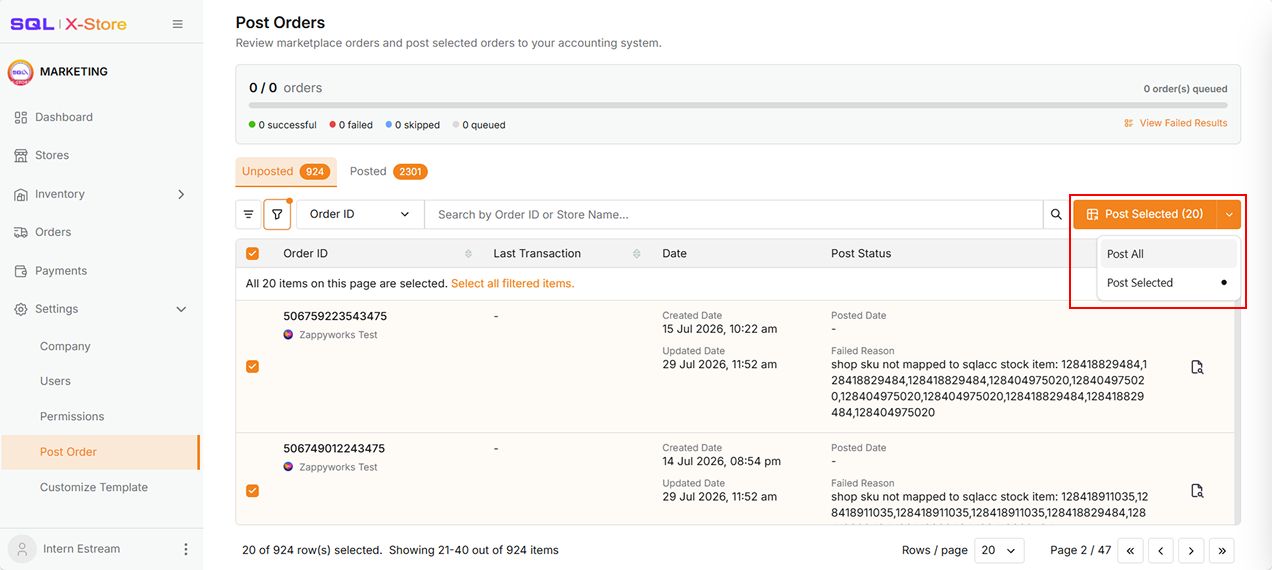
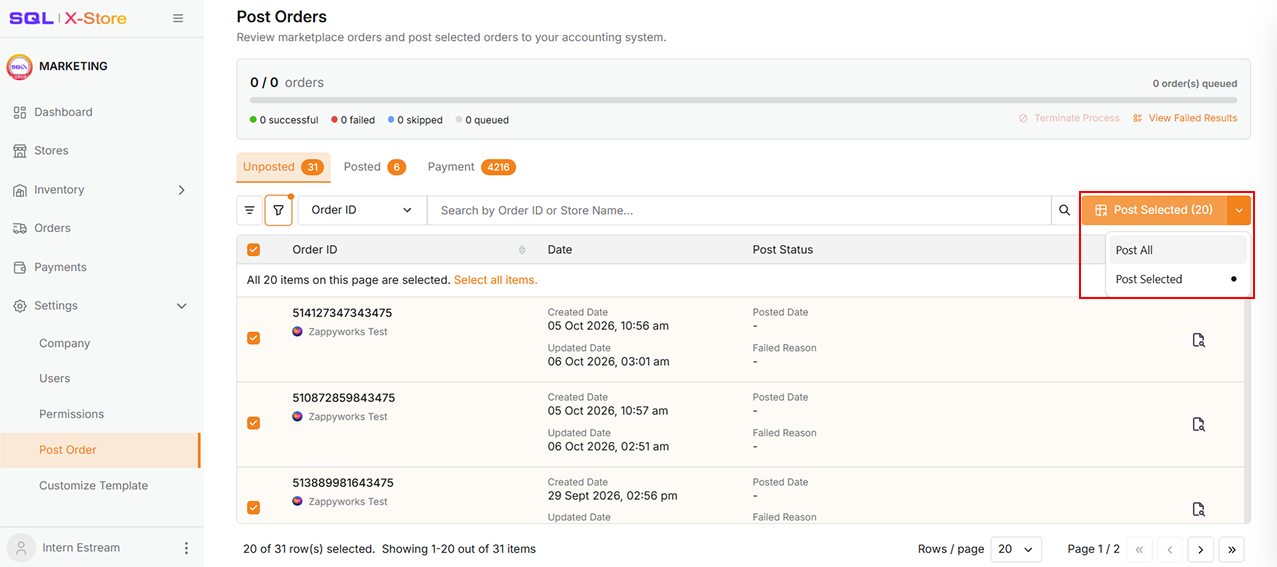
update: update post order documentation
- payment tab
- terminate queue
- red dot notification on View Failed Results

diff --git a/docs/integration/xstore/settings.md b/docs/integration/xstore/settings.md
@@ -260,14 +260,15 @@ Roles can only be deleted if they're not assigned to any users. If the role is i
 
 ## Post Order
 
-View orders in the Shipped, Delivered, or Completed state and post their invoices to SQL Account. This section has two tabs:
+View orders in the Shipped, Delivered, or Completed state and post their invoices to SQL Account. This section has three tabs:
 
-1. **Unposted Tab**: Orders that haven't been posted yet, or orders that were updated after their last posting date (i.e., the order's updated date is later than its posted date).
-2. **Posted Tab**: Orders that have already been posted and have no changes since.
+1. **Unposted** tab: Orders that have not been posted yet, or those updated after their last posting (that is, the order's transaction updated date is later than its posted date).
+2. **Posted** tab: Orders that have been posted and have not changed since.
+3. **Payment** tab: Shows all unposted and posted orders from a payment perspective. You can filter orders by settlement date in this tab.
 
 ![post-overview](../../../static/img/xstore/settings/post-overview.png)
 
-You can change the View Options to see more order details, or use the filter options to narrow down which orders are displayed. By default, orders are filtered to those created within the last 30 days. You can include older orders by adjusting the filter options.
+Use **View Options** to see more order details, or use the filter options to narrow down which orders are displayed. By default, only orders created within the last 30 days are shown. To include older orders, adjust the filter options.
 
 ![post-view](../../../static/img/xstore/settings/post-view.png)
 
@@ -277,36 +278,56 @@ You can change the View Options to see more order details, or use the filter opt
 
    ![post-selection](../../../static/img/xstore/settings/post-selection.png)
 
-2. To post all orders matching your current filters in the **Unposted Tab** at once, click the dropdown next to **Post Selected** and choose **Post All**. You can also set your preferred posting option in advance under [Company Setting](#company-setting).
+2. To post all orders matching your current filters in the **Unposted** tab at once, click the dropdown next to **Post Selected** and choose **Post All**. You can also set your preferred posting option in advance under [Company Setting](#company-setting).
 
    ![post-all](../../../static/img/xstore/settings/post-all.png)
 
-3. Clicking **Post Selected** opens a confirmation dialog. Check **Include Cancelled Orders** if you want cancelled orders posted along with the rest, then click **Continue** to proceed. Click **Cancel** to back out without posting.
+3. A confirmation dialog appears. Check **Include Cancelled Orders** if you want cancelled orders posted along with the rest, then click **Continue** to proceed. Click **Cancel** to exit without posting.
 
    ![post-confirmation](../../../static/img/xstore/settings/post-confirmation.png)
 
-4. A progress card shows the status of the posting process. If **Include Cancelled Orders** isn't selected, cancelled orders are shown as skipped. Orders still waiting to be processed are shown as queued.
+4. A progress card shows the status of the posting process. Orders still waiting to be processed are shown as *Queued*. If **Include Cancelled Orders** is not selected, cancelled orders are shown as *Skipped*.
 
    ![post-progress](../../../static/img/xstore/settings/post-progress.png)
 
-5. Once posting completes, successfully posted orders move to the **Posted Tab** and their *Posted Date* is updated. Orders that fail to post stay in the current tab, with the failure reason shown in the **Post Status** column.
+5. Once posting completes, successfully posted orders move to the **Posted** tab and their **Posted Date** is updated. Orders that fail to post remain in the current tab, with the failure reason shown in the **Post Status** column.
 
    ![post-success](../../../static/img/xstore/settings/post-success.png)
 
-6. If an order fails to post with the reason *"Shop SKU not mapped to SQL Account stock item"*, open the order's details page to map the SKU accordingly.
+6. If an order fails with the reason *"Shop SKU not mapped to SQL Account stock item"*, open the order's details page and map the SKU to the correct stock item.
 
    ![post-map](../../../static/img/xstore/settings/post-map.png)
 
 ### Failed Posting
 
-If any orders fail during the post order process, you can review them in the **Post Order Failed Results** dialog. Only failed results from the last post order process are shown, and they are kept for only **3 hours**. Once the underlying issue causing the failure has been resolved, you can repost those failed orders before they expire.
+If any orders fail during posting, you can review them in the **Post Order Failed Results** dialog.
 
-1. Click **View Failed Results** to see orders that failed to post in the last post order process, along with their failure reasons.
-2. Filter orders by failure reason.
-3. Select the relevant orders individually, or use **Select all filtered items** to select every order with the matching failure reason.
-4. Repost selected orders.
+:::note
+Only the failed results from the most recent posting process are shown, and they are kept for **3 hours**. Once the underlying issue has been resolved, repost the failed orders before they expire.
+:::
+
+1. Click **View Failed Results** to see the orders that failed in the most recent posting process, along with their failure reasons.
+2. Filter the orders by failure reason.
+3. Select the relevant orders individually, or click **Select all filtered items** to select every order with the matching failure reason.
+4. Click **Repost Selected** to post them again.
 
 ![post-failed](../../../static/img/xstore/settings/post-failed.png)
+
+### Terminate Posting
+
+If you selected the wrong orders or the posting is taking too long, you can terminate the process. This stops the entire posting run.
+
+1. Once a posting process starts, the **Terminate Process** button is enabled. Click it to begin termination.
+
+   ![terminate-overview](../../../static/img/xstore/settings/terminate-overview.png)
+
+2. Click **Confirm** to confirm termination, or click **Cancel** to exit without terminating.
+
+   ![terminate-confirmation](../../../static/img/xstore/settings/terminate-confirmation.png)
+
+3. Wait for termination to complete. This may take a moment, as the system first finishes the order currently being processed so that all progress made so far is saved. Remaining orders are marked as *Skipped*, and a *Post Order Process Terminated* toast appears at the bottom right of the screen.
+
+   ![terminate-success](../../../static/img/xstore/settings/terminate-success.png)
 
 ## Customize Template
 
